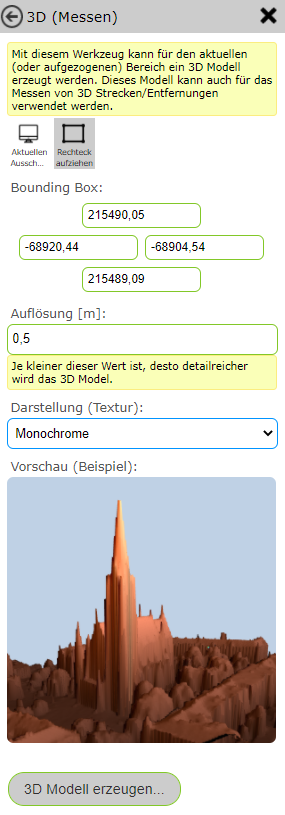
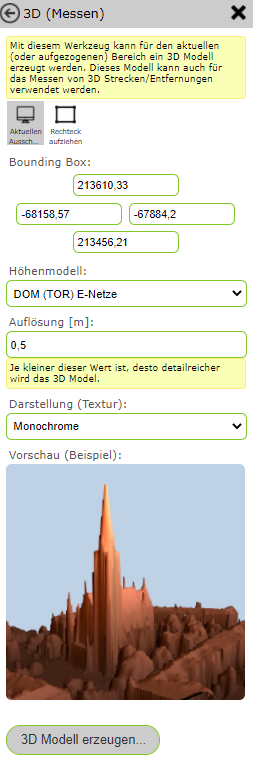
commit

diff --git a/de/webgis-manual/source/mapviewer/tools/sketch/snapping.rst b/de/webgis-manual/source/mapviewer/tools/sketch/snapping.rst
@@ -2,7 +2,7 @@ Snapping
 ========
 
 Über rechte Maustaste (egal ob in Karte oder auf Sketch) und *Snapping ...* kann ausgewählt werden, auf welche Schema der Objektfang (Snapping) aktiviert werden soll.
-Des weiteren kann festgelegt werden, ob nur Kanten, Knoten oder Endpunkt snapbar sind.
+Des weiteren kann festgelegt werden, ob nur Kanten, Knoten oder Endpunkt snapbar sind. Snapbare Linien werden dann in gelb dargestellt, wenn man mit der Maus in deren Nähe fahrt.
 
 .. image:: img/snapping1.png
 
@@ -13,7 +13,15 @@ Bei aktiviertem Snapping scheinen dann unter Konstruieren noch weitere Optionen 
 Trace-Modus starten
 -------------------
 
-Snapbare Linien werden dann gelb dargestellt, wenn man mit der Maus in deren Nähe fahrt.
+Mit dem *Trace-Modus* können snapbare Kanten verfolgt werden. 
+Dafür muss mit der rechten Maustaste in die Karte geklickt werden und dann *Trace-Modus starten* gewählt werden.
+Nachdem der erste Knoten auf einen Endpunkt der Kante gesetzt wird, kann mit der Maus über Knoten des selben Themas gefahren werden. Es wird dann der kürzeste Weg über die Linien des Themas angezeigt.
+
+Im folgendem Beispiel wurde so eine Linie entlang der Grundstücksgrenze gezeichnet.
+
+.. image:: img/snapping10.png
+
+Über rechte Maustaste in die Karte und *Trace-Modus beenden* kann der Trace-Modus wieder beendet werden.
 
 
 Richtung fixieren, parallel
@@ -40,7 +48,7 @@ Mittelpunkt Kante
 -----------------
 
 Mit dieser Option kann der Mittelpunkt einer snapbaren Kante gewählt werden. 
-Dazu muss mit der rechten Maustaste auf die dementsprechende Kante geklickt werden, und dann *Mittelpunkt Kante* gewählt werden.
+Dazu muss mit der rechten Maustaste auf die dementsprechende Kante geklickt werden und dann *Mittelpunkt Kante* gewählt werden.
 
 
 
@@ -55,8 +63,24 @@ Diese Funktion lässt sich über einen erneuten rechten Mausklick und anschließ
 Sketch parallel versetzen ...
 -----------------------------
 
-.. image:: img/snapping5.png
+Mittels *Sketch parallel versetzen ...* kann eine Sketch Linie parallel versetzt werden. 
+Dazu muss, nachdem eine Sketch Linie gezeichnet wurde, mit der rechten Maustaste auf die Seite des Sketches geklick werden, in welche Richtung der Sketch parallel versetzt werden soll.
+Es öffnet sich dann ein Fenster in welchem sich die Distanz auch noch manuell einstellen lassen würde. Als Defaultwert steht die Distanz des Klickes zum Sketch bereits im Feld.
 
+Falls gewisse Vertices nicht verschoben werden sollen, also fixiert werden sollen, kommt die bereits beschriebene Funktion *Vertex fixieren/anschließen* ins Spiel.
+Fixierte Vertices werden nämlich nicht bewegt.
 
-.. image:: img/snapping6.png
+Die Funktionalität soll anhand des folgenden Beispiels verdeutlicht werden (die Sinnhaftigkeit ist dabei außer Acht gelassen).
+Hier wurde ein Linien-Sketch entlang dieser Grundstückgrenzen (zuvor auf snapbar gestellt) gezeichnet.
 
+.. image:: img/snapping7.png
+
+Danach wurde auf der rechten Seite der Linie (von der Linie aus gesehen) der *Sketch parallel versetzen ...* Befehl ausgeführt.
+
+.. image:: img/snapping9.png
+
+Zur Veranschaulichung der fixierten Punkte wurden in der folgenden Abbildung zuerst zwei Punkte fixiert (blau gekennzeichnet) und danach wieder derselbe *Sketch parallel versetzen ...* Befehl ausgeführt.
+
+.. image:: img/snapping8.png
+
+Dasselbe Prinzip funktioniert analog auch bei Flächen-Sketches.

diff --git a/de/webgis-manual/source/mapviewer/tools/sketch/index.rst b/de/webgis-manual/source/mapviewer/tools/sketch/index.rst
@@ -3,7 +3,7 @@ Sketch/Entwurfswerkzeuge
 
 Beim Zeichnen eines Sketches (zB beim Redlining, Editieren, Höhenprofil erstellen, ...) stehen mehrere Werkzeuge zur Verfügung, die je nach Anwendung sehr hilfreich sein können.
 
-Dazu muss während des Zeichens mit der rechten Maustaste in die Karte geklickt werden. Je nach Typ des Sketches (Linie, Polygon) werden folgende Optionen angeboten:
+Dazu muss während des Zeichnens mit der rechten Maustaste in die Karte geklickt werden. Je nach Typ des Sketches (Linie, Polygon) werden folgende Optionen angeboten:
 
 .. image:: img/sketch1.png
 
@@ -12,6 +12,7 @@ Dazu muss während des Zeichens mit der rechten Maustaste in die Karte geklickt 
    :maxdepth: 2
 
    construct
+   presentation
 
 
 
@@ -26,8 +27,8 @@ Mit ``Rückgängig/Undo`` können die letzten Befehle, welche unter *Rückgängi
 Sketch entfernen
 ----------------
 
-Mit ``Sketch entfernen`` werden die gezeichneten Sketches entfernt. Falls dieser Befehl unabsichtlich ausgeführt wurde, kann er mittels ``Rückgängig/Undo`` wiederhergestellt werden.
-
+Mit ``Sketch entfernen`` werden die gezeichneten Sketches entfernt. Falls dieser Befehl unabsichtlich ausgeführt wurde, können die Sketches mittels ``Rückgängig/Undo`` wiederhergestellt werden.
+In den meisten Werkzeugen lässt sich der Sketch auch seitlich links im Menü über den ``Sketch entfernen`` Button entfernen.
 
 
 Abschnitt schließen/neuen beginnen
@@ -45,13 +46,13 @@ Vertices nennt man die sogenannten Stützpunkte der Linie, welche über verschie
 
 * **Vertex verschieben:** Auf den Vertex klicken und mit gedrückter Maustaste den Vertex beliebig verschieben.
 
-* **Vertex hinzufügen:** In die Karte klicken.
+* **Vertex hinzufügen:** Dafür gibt es mehrere Möglichkeiten: in die Karte klicken, über *Richtung/Entfernung* (siehe unten) oder über *Koordinaten (absolut)*.
 
 * **Vertex auf bestehender Linie hinzufügen:** Rechte Maustaste auf die Linie und dann *Vertex hinzufügen* wählen.
 
-* **Vertex entfernen:** Rechte Maustaste auf den Vertex und dann *Vertex entfernen* wählen. In den meisten Werkzeugen lässt sich der Sketch auch seitlich links im Menü über den ``Sketch entfernen`` Button entfernen.
+* **Vertex entfernen:** Rechte Maustaste auf den Vertex und dann *Vertex entfernen* wählen. 
 
-* **Vertex fixieren/anschließen:** Rechte Maustaste auf den Vertex und dann *Vertex fixieren/anschließen* wählen. Diese Vertices bleiben dann beim Verschieben und Versetzen fixiert. Mit rechte Maustaste und dann *Fixierung aufheben* kann die Fixierung des Vertex wieder aufgehoben werden.
+* **Vertex fixieren/anschließen:** Rechte Maustaste auf den Vertex und dann *Vertex fixieren/anschließen* wählen. Diese Vertices bleiben dann beim Verschieben und Versetzen fixiert und sind als blaue größere Punkte erkennbar. Mit rechte Maustaste und dann *Fixierung aufheben* kann die Fixierung des Vertex wieder aufgehoben werden.
 
 
 

diff --git a/de/webgis-manual/source/mapviewer/tools/map/liveshare/procedure.rst b/de/webgis-manual/source/mapviewer/tools/map/liveshare/procedure.rst
@@ -1,0 +1,85 @@
+Ablauf
+======
+
+Klickt man auf das *Live Share* Werkzeug, öffnet sich folgendes Fenster:
+
+.. image:: img/liveshare1.png
+
+
+Neue Session beginnen
+---------------------
+
+Zuerst muss der Session Eigentümer eine neue Session beginnen.  
+
+.. image:: img/liveshare2.png
+
+Nach dem Beginnen der Session öffnet sich ein Fenster, welches Möglichkeiten zum Teilen der Session bietet.
+
+
+Session teilen
+--------------
+
+Es gibt verschiedene Möglichkeiten die Liveshare Session zu teilen:
+
+.. image:: img/liveshare3.png
+
+* **Liveshare Session Id:** Falls man über das Liveshare Werkzeug in die Session einsteigen will. (Dazu braucht man allerdings einen Zugang zu einer Webgis Karte, in welcher das Liveshare Werkzeug verfügbar ist. Das braucht man bei den anderen Zugangsmöglichkeiten nicht.)
+
+* **Email:** Öffnet das Emailprogramm mit welchem man dann den Zutrittslink verschicken kann.
+
+* **Kopieren (Zwischenablage):** Der Zugangslink wird in die Zwischenablage kopiert.
+
+* **QR-Code:** Erstellt einen QR-Code, welchem der Zugangslink hinterlegt ist. Somit ist ein einfacher Zugang mit dem Handy möglich.
+
+* **Facebook:** Weiterleitung an Facebook.
+
+* **Twitter:** Weiterleitung an Twitter.
+
+Rechts unten erscheint ein Infofenster zur aktuellen Liveshare Session.
+
+.. image:: img/liveshare4.png
+
+Öffnet der Teilnehmer eine der beliebigen Varianten, wird er gefragt ob er der Liveshare Session beitreten will:
+
+
+an Session teilnehmen
+---------------------
+
+.. image:: img/liveshare5.png
+
+Der Session Eigentümer wird dann aufgefordert jeden neuen Teilnehmer zu bestätigen:
+
+.. image:: img/liveshare6.png
+
+
+Session beenden
+---------------
+
+Über *Session beenden* kann der Eigentümer die Liveshare Session beenden.
+
+Session verlassen
+-----------------
+
+Mit *Session verlassen* können Teilnehmer aus der Liveshare Session aussteigen. Die Session ist dadurch nicht beendet.
+
+
+Kartenausschnitt/Themenschaltung teilen
+---------------------------------------
+
+.. image:: img/liveshare7.png
+
+Ist *Kartenausschnitt teilen* ausgewählt, wird in allen Session derselbe Kartenausschnitt angezeigt.
+
+Ist *Themenschaltung teilen* ausgewählt, werden in allen Session dieselben Themen angezeigt.
+
+
+Marker setzen
+-------------
+
+Jeder Session Teilnehmer kann seinen eigenen Marker setzen. Dazu muss er einfach in die Karte klicken.
+Über ``Aktuelle Position`` kann der Marker auch auf die aktuelle Position gesetzt werden. 
+Mit ``Marker entfernen`` kann der Marker wieder entfernt werden.
+
+.. image:: img/liveshare8.png
+
+.. image:: img/liveshare9.png

diff --git a/de/webgis-manual/source/mapviewer/tools/presentation/labeling.rst b/de/webgis-manual/source/mapviewer/tools/presentation/labeling.rst
@@ -3,22 +3,32 @@ Themen beschriften
 
 Mit diesem Werkzeug können Themen noch zusätzlich beschriftet werden.
 
+.. image:: img/labeling1.png
+
 Dafür muss man zuerst das Thema, welches beschriftet werden soll, auswählen.
 Je nach Thema werden dann die möglichen Beschriftungsfelder angeboten. 
-Welche Felder als Beschriftung verwendet werden können, wird von Kartenautor festgelegt???????ß
+Welche Felder als Beschriftung verwendet werden können, wird von Kartenautor festgelegt. ????????
 
 Die Beschriftungsmethode legt fest, wie oft ein Objekt beschriftet werden soll. 
 
-* *Alles:* Jedes Objekt wird beschriftet.
+* **Alles:** Jedes Objekt wird beschriftet.
 
-* *pro Name 1x:* Wenn mehrere Objekte dieselbe Beschriftung haben, wird nur ein Objekt davon beschriftet.
+* **pro Name 1x:** Wenn mehrere Objekte dieselbe Beschriftung haben, wird nur ein Objekt davon beschriftet.
 
-* *pro Objekt 1x:* Jedes Objekt wird nur einmal beschriftet. Dadurch werden insgesamt weniger Beschriftungen angezeigt, ist bei Leitungen oder langen Straßen jedoch nicht zu empfehlen.
-
-
-Des weiteren kann noch 
+* **pro Objekt 1x:** Jedes Objekt wird nur einmal beschriftet. Dadurch werden insgesamt weniger Beschriftungen angezeigt, ist bei Leitungen oder langen Straßen jedoch nicht zu empfehlen.
 
 
-Mit ''übernehmen'' wird die gewählte Beschriftung gesetzt und kann über ''entfernen'' wieder entfernt werden.
+Des weiteren kann noch der Style definiert werden. Dazu stehen folgende Einstellungsmöglichkeiten zur Verfügung:
+
+.. image:: img/labeling2.png
+
+.. image:: img/labeling3.png
+
+.. image:: img/labeling4.png
+
+.. image:: img/labeling5.png
+
+
+Mit ``Übernehmen`` wird die gewählte Beschriftung gesetzt und kann über ``Entfernen`` wieder entfernt werden.
 
 Es können beliebig viele weitere Beschriftungen gesetzt werden, jedoch kann immer nur die zuletzt gesetzte Beschriftung wieder entfernt werden.

diff --git a/de/webgis-manual/source/mapviewer/general/maps_services.rst b/de/webgis-manual/source/mapviewer/general/maps_services.rst
@@ -1,0 +1,22 @@
+Karten und Dienste
+==================
+
+Im Kartenviewer werden die vom Kartenautor bereitgestellten Karten angezeigt. Eine Karte fast in der Regel Themen für bestimmte Anwendungsfälle zusammen. 
+
+Gleichartige Geo-Daten sind in Themen (*Layer* bzw Schichten) zusammengefasst, die einzeln dargestellt und abgefragt werden können. Einzelne Themengruppen sind wiederum in Kartendiensten zusammen gefasst.
+
+Für eine Karte ergibt damit folgende Hierarchie für Geo-Daten:
+
+
+* **Themen:** (Layer) fassen Geo-Objekte gleichen Types zusammen. Ein mögliches Thema ist beispielsweise das Thema *Grundstücke*, dass aus mehreren Geo-Objekte vom Type Grundstück besteht.
+  Jedes hat eine für sich typische kartographische Darstellung (Legende). Bestimmte Themen könne durch Anklicken (Werkzeug *Identify*) abgefragt werden oder bieten eine Suchmöglichkeit über Sachdaten an.
+
+
+* **(Karten) Dienste:** Mehrere Layer können zu einem Dienst zusammengefasst werden. Beispielsweise kann ein Dienst *Kataster* die Themen Grundstücke, Benutzungsabschnitte und Nutzungssymbole zusammenfassen.
+
+
+* **Karten:** Eine Karte, die im Kartenviewer darstellt wird, fasst mehrere Dienste zusammen. So könne in einer Karte *Basis* Hintergrunddienste für den Ortsplan und Luftbilder, Poltische Grenzen, Adressen und der Kataster als Dienste zusammengefasst werden.
+
+
+Ein Kartendienst kann dabei in unterschiedlichen Karten vorkommen. Besonders die Hintergrunddienste (Ortsplan und Luftbilder) sind in fast jeder Karte sinnvoll. Im Kartenviewer besteht auch die Möglichkeit, das
+der Anwender über einem Button ``Dienste hinzufügen`` zu einer bestehenden Karten für die aktuelle Session beliebige Dienste hinzufügen kann. 

diff --git a/de/webgis-cloud/source/KartenViewer/ParametrierterAufruf/urlparameter.rst b/de/webgis-cloud/source/KartenViewer/ParametrierterAufruf/urlparameter.rst
@@ -214,3 +214,26 @@ Beispiele:
 .. note::
    Das Schalten einzelner Layer sollte wenn möglich vermieden und nur in Ausnahmefällen verwendet werden. Layernamen und Gruppen können sich im Laufe der Zeit für einen Dienst ändern, was die verwendeten Aufruflinks unbrauchbar macht.
    Ebenso wird nicht unterschieden, in welchem Dienst sich ein Layer mit dem Namen befinden muss. Gibt es hier Doppeldeutigkeiten, kann das zu Fehlern in der Darstellung führen.
+
+Sichtbarkeit von Hintergrunddiensten
+------------------------------------
+
+Hintergrunddienste (Basemaps) können über den Parameter ``basemap`` eingeschalten werden. Es können mit Beistrich getrennt mehrere Dienste (ids) angegeben werden, wobei der erste Dienst Hintergrund Basemaps und alle weiteren *Oberlayer* Basemaps sein müsssen.
+
+Beispiele:
+
+``basemap=orhto_tiles_gray@my_cms``
+
+oder mit zusätzlichem Basemap *Overlay* Dienst:
+
+``basemap=ortho_tiles_gray@my_cms,streets_tiles_default@my_cms``
+
+Dienste hinzufügen
+------------------
+
+Beim Aufruf einer Karten können noch zusätzliche Dienste übergeben werden. Dazu muss über den Parameter ``append-services`` oder ``gdiservices`` eine mit Bestrich getrennt Liste von Dienst Ids übergeben werden.
+Die angeführten Dienste werden in der Reihenfolge in die Karte eingefügt, wie sie übergeben werden. Neue Dienste werden werden einer Karte grundsätzlich ganz eingefügt. Der am letzten eingefügte Dienst überdeckt alle bereits eingefügten Dienst.
+Befindet sich ein Dienst bereits in der Karte, wird dieser ignoriert.
+
+*  ``append-services`` gleichbedeutend mit ``gdiservices``
+   z.B.: ``append-services=service1,service2,service1@cms1``

diff --git a/de/webgis-manual/source/mapviewer/general/index.rst b/de/webgis-manual/source/mapviewer/general/index.rst
@@ -1,17 +1,19 @@
 .. sectnum::
     :start: 1
 
-Übersicht
-=========
+Allgemeines
+===========
 
-Nach dem Öffnen einer Karte erscheint der Kartenviewer in folgender Form:
+WebGIS ist eine Web-Anwendung zum anzeigen, abfragen und bearbeiten von Geo-Daten. Geo-Daten sind Daten mit einem geographischen Bezug, sprich einer geographischen Lage.
+Die Daten werden in kartographischer Aufbereitung als Karte(n) angeboten. 
 
-.. image:: img/viewer1.png
+Die Hauptanwendung zum Anzeigen der Karten ist der Kartenviewer, für den auch das vorliegende Handbuch konzipiert wurde.
 
+Einleitend sollt hier allerdings noch auf einige Grundkonzepte eingegangen werden, die zum Verständnis der angeboten Karten dienen sollten.
 
-Es müssen in einer Karte nicht alle hier gezeigten Elemente sichtbar sein. Die einzelnen Elemente werden vom Karten Administrator so festgelegt,
-dass eine effiziente Bedienung für die jeweilige Anwendung möglich ist. 
+.. toctree::
+   :maxdepth: 1
 
-Auf mobilen Geräten kann sich das Erscheinungsbild entsprechend anpassen:
-
-.. image:: img/viewer2.png
+   maps_services
+   portal
+   ui

diff --git a/de/webgis-manual/source/mapviewer/general/portal.rst b/de/webgis-manual/source/mapviewer/general/portal.rst
@@ -1,0 +1,16 @@
+Kartenportal (Kartensammlungen)
+===============================
+
+Das es für die unterschiedlichen Anwendungsfälle mehrere Karten geben kann, ist der Einstiegspunkt für das WebGIS ein Kartenportal (bzw. eine Kartensammlung).
+In diesem Portal werden alle Karten (gegliedert in Kategorien) aufgelistet:
+
+.. image:: img/portal1.png
+
+Werden viele Karten angeboten, gibt auf für die Kartensammlung auch die Möglichkeit nach Karten zu suchen:
+
+.. image:: img/portal2.png
+
+Gibt man Suchbegriffe ein, werden nur mehr jene Karten angezeigt, die zum aktuellen Suchbegriff passen. Dazu wird nicht nur im Karten-Titel gesucht, sondern auch einer eventuell 
+vorhanden Beschreibung der Karten, wie wiederum auch *Schlagwörter* zum leicheren Auffinden von Karten dienen können (z.B. Kann ein Karte *Kataster* auch über die Schlagwörter *Grundstücke* gefunden werden)
+
+Klickt man auf einer der Kacheln, wird der Kartenviewer mit der entsprechenden Karte geöffnet.

diff --git a/de/webgis-manual/source/mapviewer/tools/general/measure-3d.rst b/de/webgis-manual/source/mapviewer/tools/general/measure-3d.rst
@@ -13,11 +13,16 @@ Dafür muss zuerst der Bereich des 3D-Modells bestimmt werden. Dieser kann entwe
 Alternativ können die Koordinaten auch händisch eingetragen werden.
 
 
+**Höhenmodell**
+
+Unter Höhenmodell kann das gewünschte Höhenmodell ausgewählt werden, auf dessen Basis das 3D-Modell erstellt wird.
+
+
 **Auflösung**
 
 Des weiteren muss die Auflösung des 3D-Modelles festgelegt werden.
 Die bestmögliche Auflösung, welche von der Größe des Ausschnitts sowie vom Oberflächenmodell im Hintergrund abhängt, wird bereits im Feld vorgeschlagen. 
-Wird dei Auflösung zu fein gewählt, wird eine Warnung beim Erstellen des 3D-Modelles kommen.
+Wird die Auflösung zu fein gewählt, wird eine Warnung beim Erstellen des 3D-Modelles kommen.
 
 .. note::
    Je größer die Bounding Box und je feiner die Auflösung ist, desto umfangreicher wird das 3D-Modell. 

diff --git a/de/webgis-manual/source/mapviewer/tools/sketch/coordinates.rst b/de/webgis-manual/source/mapviewer/tools/sketch/coordinates.rst
@@ -6,7 +6,7 @@ Wählt man diese Funktion öffnet sich folgendes Fenster:
 
 .. image:: img/coordinates1.png
 
-Hier kann zuerst das dementsprechende Koordinatensystem ausgewählt werden und danach der Rechtswert und Hochwert eingetragen werden. 
+Hier kann zuerst das dementsprechende Koordinatensystem ausgewählt und danach der Rechtswert und Hochwert eingetragen werden. 
 Im Feld sind bereits die Koordinaten der Stelle, an welcher der rechte Mausklick getätigt wurden, im Koordinatensystem der Karte eingetragen.
 Mit ``Koordinate übernehmen`` wird der neue Vertex gesetzt.
 

diff --git a/de/webgis-manual/source/mapviewer/tools/map/liveshare/index.rst b/de/webgis-manual/source/mapviewer/tools/map/liveshare/index.rst
@@ -26,3 +26,9 @@ Geteilt werden:
 .. note::
    LiveShare kann nicht nur von unterschiedlichen Teilnehmern genutzt werden. Manchmal macht es auch Sinn, eine Session nur für den eigenen Gebrauch zu machen. Arbeitet man beispielsweise mit mehreren Bildschirmen, dann kann man auf jedem
    Bildschirm einen Kartenviewer (eventuell mit unterschiedlichen Kartenebenen) öffnen. Damit beide Kartenviewer immer den gleichen Ausschnitt anzeigen, kann dafür eine "lokale" LiveShare Session verwendet werden.
+
+
+.. toctree::
+   :maxdepth: 3
+
+   procedure

diff --git a/de/webgis-manual/source/mapviewer/general/ui.rst b/de/webgis-manual/source/mapviewer/general/ui.rst
@@ -1,0 +1,14 @@
+Benutzeroberfläche
+==================
+
+Nach dem Öffnen einer Karte erscheint der Kartenviewer in folgender Form:
+
+.. image:: img/viewer1.png
+
+
+Es müssen in einer Karte nicht alle hier gezeigten Elemente sichtbar sein. Die einzelnen Elemente werden vom Karten Administrator so festgelegt,
+dass eine effiziente Bedienung für die jeweilige Anwendung möglich ist. 
+
+Auf mobilen Geräten kann sich das Erscheinungsbild entsprechend anpassen:
+
+.. image:: img/viewer2.png
